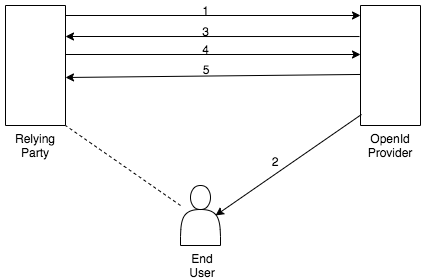
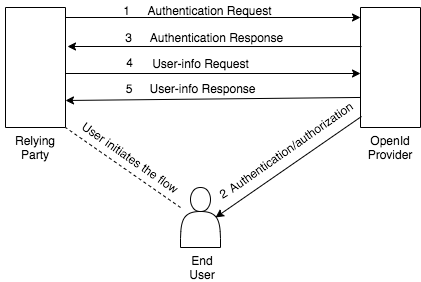
Re-strucutred concepts

diff --git a/en/docs/concepts/user-management.md b/en/docs/concepts/user-management.md
@@ -1,0 +1,53 @@
+# Introduction to OpenID Connect
+
+### What is OpenID Connect?
+OpenID Connect is an authentication protocol which builds on top of the OAuth2.0 protocol. This is not a replacement to OAuth2.0, 
+but an extension which the clients can request by including the 'openid' scope value in the Authorization Request. 
+This protocol verifies user identity by authenticating the end user against the Authorization Server.
+
+### Why OpenID Connect?
+When authenticating to an online system, a user should be able to prove his identity to the system. 
+A single user can have multiple identites (Passport number, NIC number, finger print) and proving identity to a system
+can be done in many ways such as using credentials, biometric information, or any other mechanism. OpenID Connect provides a 
+trustworthy, simple and effective mechanism for individuals to identify themselves to many application and service 
+providers using one or more of their identities stored at a trusted identity provider (IdP).
+
+OIDC provides a single login to multiple sites through an Identity Provider. It provides secure access to a client or an
+application without the user sharing the credentials of the application by exchanging tokens. Apart from that, the clients
+receive user identity related details in the format of jwt which is very easy to process and maintain. Even though this 
+protocol is simple, it has more features that match the enterprise demand supporting a wider variety of client types such as 
+web , mobile , desktop and  java-script clients.
+ 
+In simple terms, OIDC is the solution and a single platform which performs both authentication and authorization.
+
+### When to choose OIDC for which application
+OIDC represents three flows of authentication
+
+    - Authorization code flow
+    - Impicit flow
+    - Hybrid flow
+
+The different flows target different types of application clients.
+
+| Flow                 | Usage         | 
+| --------------------- | ------------- | 
+| Authorization code flow | Mostly used by web and mobile applications when the clients can use typical ways to authenticate. (Ex: Proving user credentials)  |                            
+| Implicit Flow           | Specially consumed by the mobile applications or the client side JavaScript applications that run in the browser where embedded credentials could be compromised. In this case the client should not be authenticated and tokens should be retrieved via the front channel".  |                              
+| Hybrid Flow             | Front-end and back-end applications use this flow to receive tokens independently (when a client application wants an immediate use of user details which can be obtained through an ID token), while the exchange of the authorization code and the access token happens.  | 
+
+### How it works?
+
+The exact flow differs based on the authentication flow or the grant type.  However, OIDC in general allows web applications to authenticate users with an external server (OpenID Connect Provider - OP). Usually, the user information is picked from an external Identity Provider or sometimes the Identity Provider (IDP) may act as the OP as well. In this OIDC flow, all communication takes place via tokens.
+
+The following steps explain how this protocol works in a simple manner.
+
+  ![oidc-flow](../../assets/img/concepts/oidc-basic-flow.png)
+  
+  When a user needs to access an application and once he initiates the flow,
+  
+1. The client sends a request to the OP.
+2. The OP authenticates the user and obtains the authorization.
+3. The OP responds with an ID token and an access token.
+4. The client application (Relying Party - RP) sends a request using the access token to obtain user information.
+5. The user information returns claims.
+

diff --git a/en/docs/concepts/oidc/intro-oidc.md b/en/docs/concepts/oidc/intro-oidc.md
@@ -5,6 +5,15 @@ OpenID Connect is an authentication protocol which builds on top of the OAuth2.0
 but an extension which the clients can request by including the 'openid' scope value in the Authorization Request. 
 This protocol verifies user identity by authenticating the end user against the Authorization Server.
 
+!!! info "WSO2 Identity Server is Open ID Certified !!!"
+    Open ID foundation holds a certification program and grants Open ID Connect certificate for Open ID Providers who 
+    conform with OIDC Profiles. WSO2 Identity Server is Open ID certified for following profiles. 
+    
+      - Basic OP
+      - Impicit OP
+      - Hybrid OP
+      - Form Post OP
+
 ### Why OpenID Connect?
 When authenticating to an online system, a user should be able to prove his identity to the system. 
 A single user can have multiple identites (Passport number, NIC number, finger print) and proving identity to a system
@@ -41,7 +50,7 @@ The exact flow differs based on the authentication flow or the grant type.  Howe
 
 The following steps explain how this protocol works in a simple manner.
 
-  ![oidc-flow](../assets/img/concepts/oidc-basic-flow.png)
+  ![oidc-flow](../../assets/img/concepts/oidc-basic-flow.png)
   
   When a user needs to access an application and once he initiates the flow,
   
